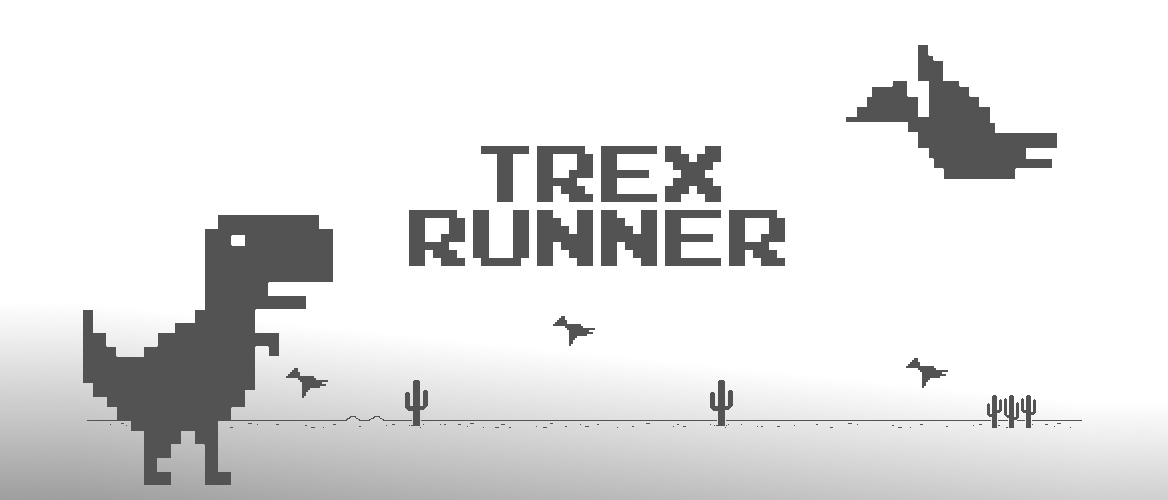
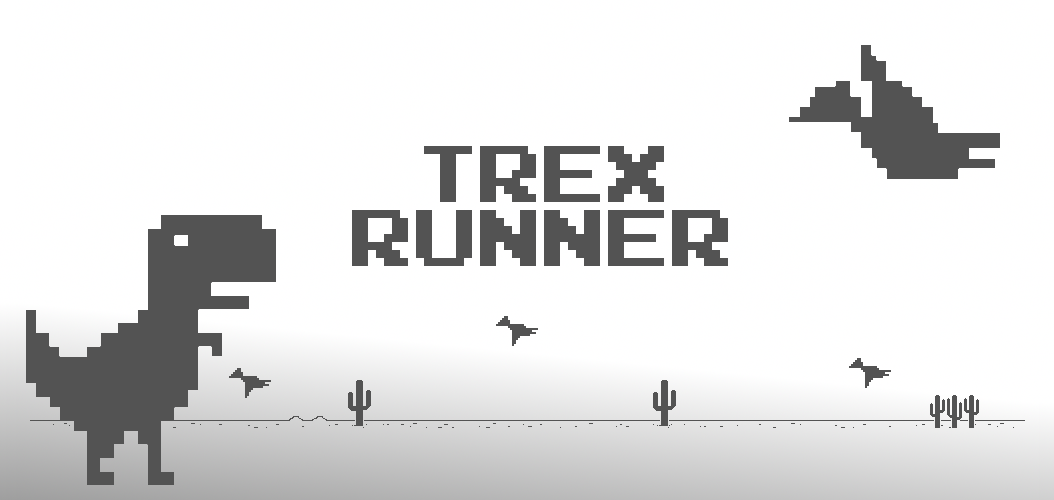
adjust runner display

diff --git a/apps/extension/src/screens/ProjectLayout/DynamicApp/index.tsx b/apps/extension/src/screens/ProjectLayout/DynamicApp/index.tsx
@@ -1,18 +1,27 @@
 import { FC, useEffect } from 'react';
-import { StyleSheet, View } from 'react-native';
+import { StyleSheet, Text, View } from 'react-native';
 
 const styles = StyleSheet.create({
 	container: {
 		flex: 1,
 		backgroundColor: 'rgb(47, 47, 47)',
 	},
+	collectionContainer: {
+		flex: 1,
+	},
 });
 
 export const DynamicAppLayout: FC = () => {
 	useEffect(() => {
+		let runner: any;
+
 		setTimeout(() => {
-			new global.Runner('.interstitial-wrapper');
+			runner = new global.Runner('.interstitial-wrapper');
 		}, 200);
+
+		return () => {
+			console.log(runner);
+		};
 	}, []);
 
 	return (
@@ -27,11 +36,18 @@ export const DynamicAppLayout: FC = () => {
 				className="hidden"
 				src="/runner/200-offline-sprite.png"
 			/>
-			<div id="main-frame-error" className="interstitial-wrapper">
+			<div
+				style={{ marginTop: 50, minHeight: 150 }}
+				id="main-frame-error"
+				className="interstitial-wrapper"
+			>
 				<div id="main-content">
 					<div className="icon icon-offline" alt=""></div>
 				</div>
 			</div>
+			<View style={styles.collectionContainer}>
+				<Text>Hello world!</Text>
+			</View>
 		</View>
 	);
 };

diff --git a/apps/extension/src/screens/Dashboard/Explore/index.tsx b/apps/extension/src/screens/Dashboard/Explore/index.tsx
@@ -14,6 +14,7 @@ import ChooseLayoutCard from './ExploreCard';
 export interface ExploreCard {
 	name: string;
 	description: string;
+	textColor?: string;
 	logoUrl: ImageSourcePropType;
 	thumbnailUrl: ImageSourcePropType;
 	loveCount: number;
@@ -57,7 +58,8 @@ const mockLayouts: ExploreCard[] = [
 	},
 	{
 		name: 'T-rex Runner',
-		description: 'dApp version of the T-rex Runner you already known!',
+		description: 'dApp version of the T-rex Runner you already know!',
+		textColor: '#000000',
 		logoUrl: resources.runner.icon,
 		thumbnailUrl: { uri: '/img/explore-screen/runner-bg.png' },
 		loveCount: 10,

diff --git a/apps/extension/assets/runner.js b/apps/extension/assets/runner.js
@@ -315,7 +315,6 @@
 				).content;
 
 				for (var sound in Runner.sounds) {
-					console.log(Runner.sounds[sound], '<--');
 					var soundSrc = resourceTemplate.getElementById(
 						Runner.sounds[sound],
 					).src;
@@ -941,8 +940,7 @@
 				) * window.devicePixelRatio;
 
 			const cssScale = scale - 0.16;
-			this.containerEl.style.transform =
-				'scale(' + cssScale + ') translateY(' + translateY + 'px)';
+			this.containerEl.style.transform = 'scale(' + cssScale + ')';
 		},
 
 		/**

diff --git a/apps/extension/src/screens/Dashboard/Explore/ExploreCard.tsx b/apps/extension/src/screens/Dashboard/Explore/ExploreCard.tsx
@@ -88,7 +88,11 @@ const ChooseLayoutCard: FC<Props> = ({
 				</Link>
 
 				<View className="flex justify-between shrink">
-					<Text className="h-6 text-[8px] text-ellipsis overflow-hidden mr-3">
+					<Text
+						numberOfLines={2}
+						style={{ color: item.textColor || 'white', lineHeight: 12 }}
+						className="text-[10px] text-ellipsis overflow-hidden mr-3"
+					>
 						{item.description}
 					</Text>
 
